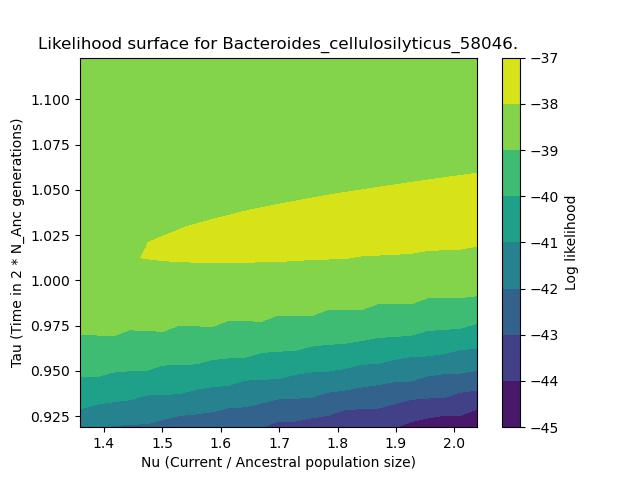
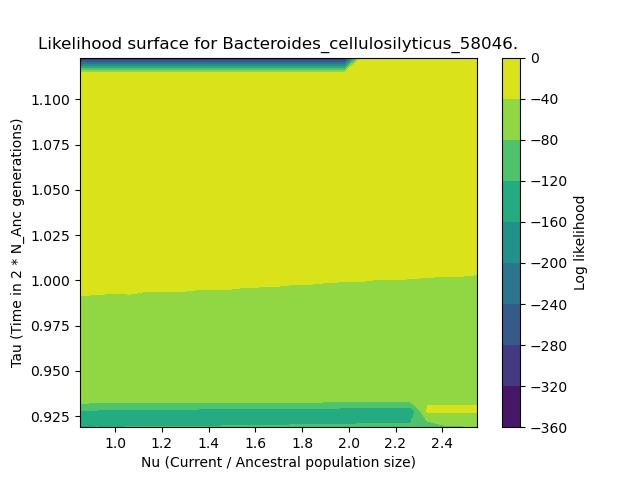
B. cellulosilyticus likelihood plot

diff --git a/Scripts/plot_likelihood.py b/Scripts/plot_likelihood.py
@@ -466,7 +466,7 @@ class PlotLikelihood():
 
                 npts = 25
 
-                x_range = numpy.linspace(x * 0.8, x * 1.2, npts)
+                x_range = numpy.linspace(x * 0.5, x * 1.5, npts)
                 y_range = numpy.linspace(y * 0.9, y * 1.1, npts)
 
                 X, Y = numpy.meshgrid(x_range, y_range)
